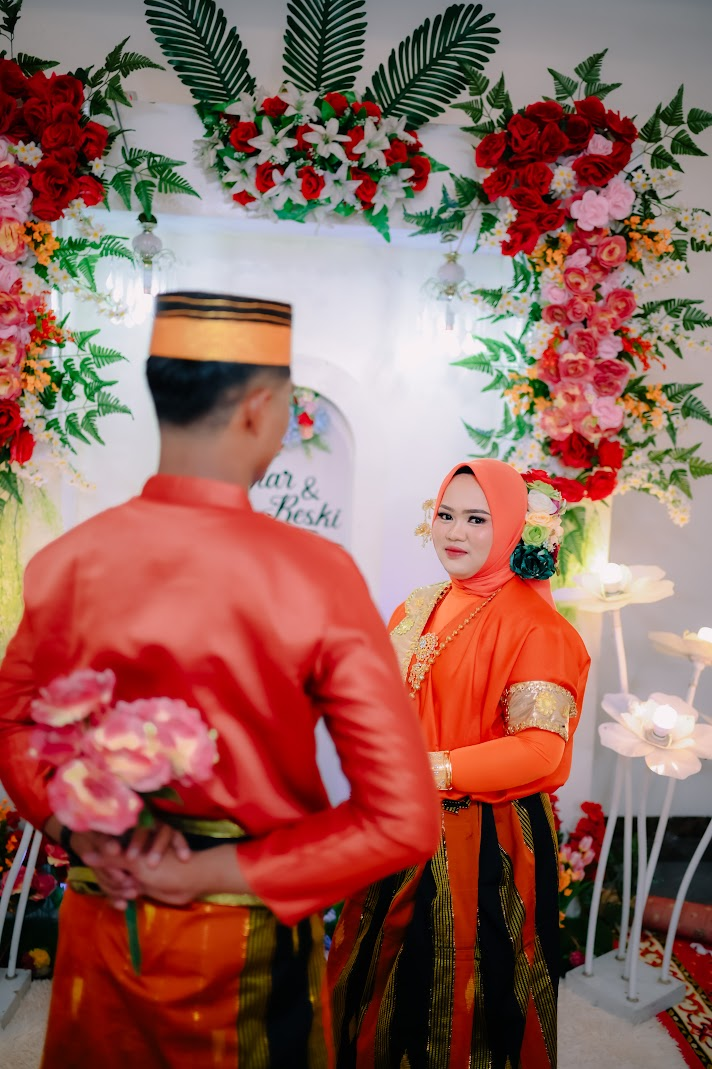
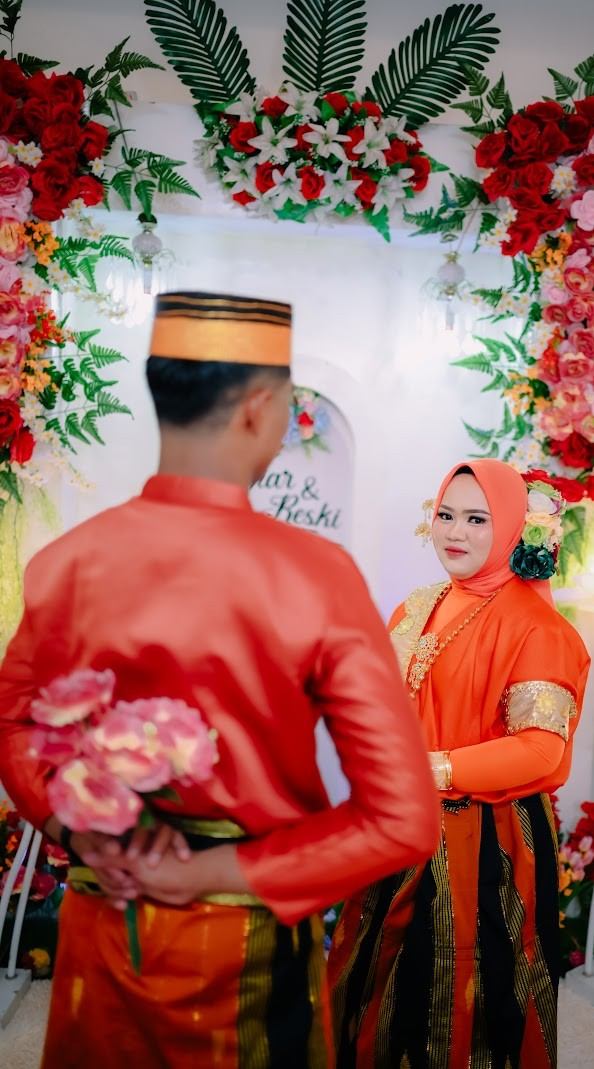
Hapus cache pesan lokal dan dummy wishes agar hanya menampilkan pesan asli dari database

diff --git a/script.js b/script.js
@@ -586,40 +586,19 @@ function initApp() {
   const rsvpStatusAlert = document.getElementById('rsvpStatusAlert');
   const wishesList = document.getElementById('wishesList');
 
+  // Bersihkan cache pesan lokal sebelumnya yang tidak masuk database
   const STORAGE_KEY_WISHES = 'wedding_wishes_niar_reski';
-  const DEFAULT_WISHES = [
-    {
-      name: "Keluarga Besar Rahmat",
-      text: "Selamat berbahagia untuk Niar & Reski! Semoga menjadi keluarga yang sakinah, mawaddah, warahmah."
-    },
-    {
-      name: "Sahabat Teknik",
-      text: "Barakallahu lakum wa baraka alaikum wa jama'a bainakuma fi khair. Lancar sampai hari H!"
-    }
-  ];
+  try {
+    localStorage.removeItem(STORAGE_KEY_WISHES);
+  } catch (err) {}
 
   let cloudWishes = [];
+  let isFetchingCloudWishes = false;
 
-  function getStoredWishes() {
-    try {
-      const data = localStorage.getItem(STORAGE_KEY_WISHES);
-      return data ? JSON.parse(data) : [];
-    } catch (err) {
-      return [];
-    }
-  }
-
-  function saveWishLocal(name, text) {
-    try {
-      const current = getStoredWishes();
-      current.unshift({ name, text, date: new Date().toLocaleDateString('id-ID') });
-      localStorage.setItem(STORAGE_KEY_WISHES, JSON.stringify(current));
-    } catch (err) {}
-  }
-
-  // Ambil ucapan dari Google Sheets Database (Dapat dilihat oleh semua tamu)
+  // Ambil ucapan dari Google Sheets Database (Hanya pesan asli dari database)
   async function fetchCloudWishes() {
-    if (!GOOGLE_SCRIPT_URL) return;
+    if (!GOOGLE_SCRIPT_URL || isFetchingCloudWishes) return;
+    isFetchingCloudWishes = true;
     try {
       const response = await fetch(GOOGLE_SCRIPT_URL, { redirect: 'follow' });
       if (response.ok) {
@@ -633,17 +612,19 @@ function initApp() {
           items = raw.wishes;
         }
 
-        if (items.length > 0) {
-          cloudWishes = items.map(it => ({
-            name: it.name || it.nama || 'Tamu Undangan',
-            text: it.text || it.wish || it.pesan || it.message || '',
-            date: it.date || it.timestamp || it.waktu || ''
-          })).filter(it => it.text);
-          renderWishesList();
-        }
+        cloudWishes = items.map(it => ({
+          name: it.name || it.nama || 'Tamu Undangan',
+          text: it.text || it.wish || it.pesan || it.message || '',
+          date: it.date || it.timestamp || it.waktu || ''
+        })).filter(it => it.text);
+
+        renderWishesList();
       }
     } catch (err) {
-      console.warn('Info: Menampilkan ucapan offline/lokal.', err);
+      console.warn('Info: Menghubungi Google Sheets database...', err);
+      renderWishesList();
+    } finally {
+      isFetchingCloudWishes = false;
     }
   }
 
@@ -668,33 +649,26 @@ function initApp() {
       });
       // Sinkronisasi ulang daftar pesan dari cloud setelah pengiriman
       setTimeout(fetchCloudWishes, 1500);
-      setTimeout(fetchCloudWishes, 4000);
+      setTimeout(fetchCloudWishes, 3500);
     } catch (err) {
-      console.warn('Gagal menyimpan ke Google Sheets, data tetap aman di lokal:', err);
+      console.warn('Gagal menyimpan ke Google Sheets:', err);
     }
   }
 
   function renderWishesList() {
     if (!wishesList) return;
-    const userWishes = getStoredWishes();
 
-    // Gabungkan ucapan dari cloud (semua tamu), lokal, dan default dengan deduplikasi
-    const combined = [];
-    const seen = new Set();
-
-    [...cloudWishes, ...userWishes, ...DEFAULT_WISHES].forEach(item => {
-      const name = (item.name || item.nama || '').trim();
-      const text = (item.text || item.wish || item.pesan || '').trim();
-      const date = item.date || item.timestamp || item.waktu || '';
-      const key = `${name.toLowerCase()}_${text.toLowerCase()}`;
-      if (!seen.has(key) && name && text) {
-        seen.add(key);
-        combined.push({ name, text, date });
-      }
-    });
+    if (!cloudWishes || cloudWishes.length === 0) {
+      wishesList.innerHTML = `
+        <div class="wish-item-empty" style="text-align: center; color: #8c7365; font-size: 13px; font-style: italic; padding: 22px 14px; background: rgba(255, 255, 255, 0.45); border-radius: 8px; border: 1px dashed rgba(184, 134, 11, 0.35);">
+          Belum ada doa restu di dalam database.<br>Jadilah yang pertama memberikan ucapan manis untuk kedua mempelai! ✨
+        </div>
+      `;
+      return;
+    }
 
     wishesList.innerHTML = '';
-    combined.forEach(item => {
+    cloudWishes.forEach(item => {
       const el = document.createElement('div');
       el.className = 'wish-item-vintage';
 
@@ -749,8 +723,12 @@ function initApp() {
       return;
     }
 
-    // 1. Simpan di lokal agar langsung terlihat seketika (optimistic UI)
-    saveWishLocal(name, wish);
+    // 1. Tampilkan langsung ke antarmuka seketika (Optimistic UI)
+    cloudWishes.unshift({
+      name: name,
+      text: wish,
+      date: new Date().toLocaleDateString('id-ID')
+    });
     renderWishesList();
 
     // 2. Kirim ke Google Sheets di latar belakang

diff --git a/index.html b/index.html
@@ -16,7 +16,7 @@
     href="https://fonts.googleapis.com/css2?family=Alex+Brush&family=Cinzel:wght@400;600;700;900&family=Cormorant+Garamond:ital,wght@0,300;0,400;0,600;0,700;1,400&family=Montserrat:wght@300;400;500;600&family=Noto+Sans+Buginese:wght@400;600;700&family=Playfair+Display:ital,wght@0,400;0,600;0,700;1,400&display=swap"
     rel="stylesheet">
 
-  <link rel="stylesheet" href="style.css?v=20261127_1010">
+  <link rel="stylesheet" href="style.css?v=20261127_1015">
 </head>
 
 <body>
@@ -316,13 +316,8 @@
 
           <!-- List of wishes -->
           <div class="wishes-vintage-list" id="wishesList">
-            <div class="wish-item-vintage">
-              <strong>Keluarga Besar Rahmat</strong>
-              <p>Selamat berbahagia untuk Niar & Reski! Semoga menjadi keluarga yang sakinah, mawaddah, warahmah.</p>
-            </div>
-            <div class="wish-item-vintage">
-              <strong>Sahabat Teknik</strong>
-              <p>Barakallahu lakum wa baraka alaikum wa jama'a bainakuma fi khair. Lancar sampai hari H!</p>
+            <div class="wish-item-empty" style="text-align: center; color: #8c7365; font-size: 13px; font-style: italic; padding: 20px 14px; background: rgba(255, 255, 255, 0.45); border-radius: 8px; border: 1px dashed rgba(184, 134, 11, 0.35);">
+              Memuat doa restu dari database...
             </div>
           </div>
         </div>
@@ -386,7 +381,7 @@
   <audio id="bgMusicAudio" src="music.mp3" preload="auto" loop autoplay playsinline webkit-playsinline></audio>
 
   <!-- Main Cinematic Orchestrator -->
-  <script src="script.js?v=20261127_1010"></script>
+  <script src="script.js?v=20261127_1015"></script>
 </body>
 
 </html>
